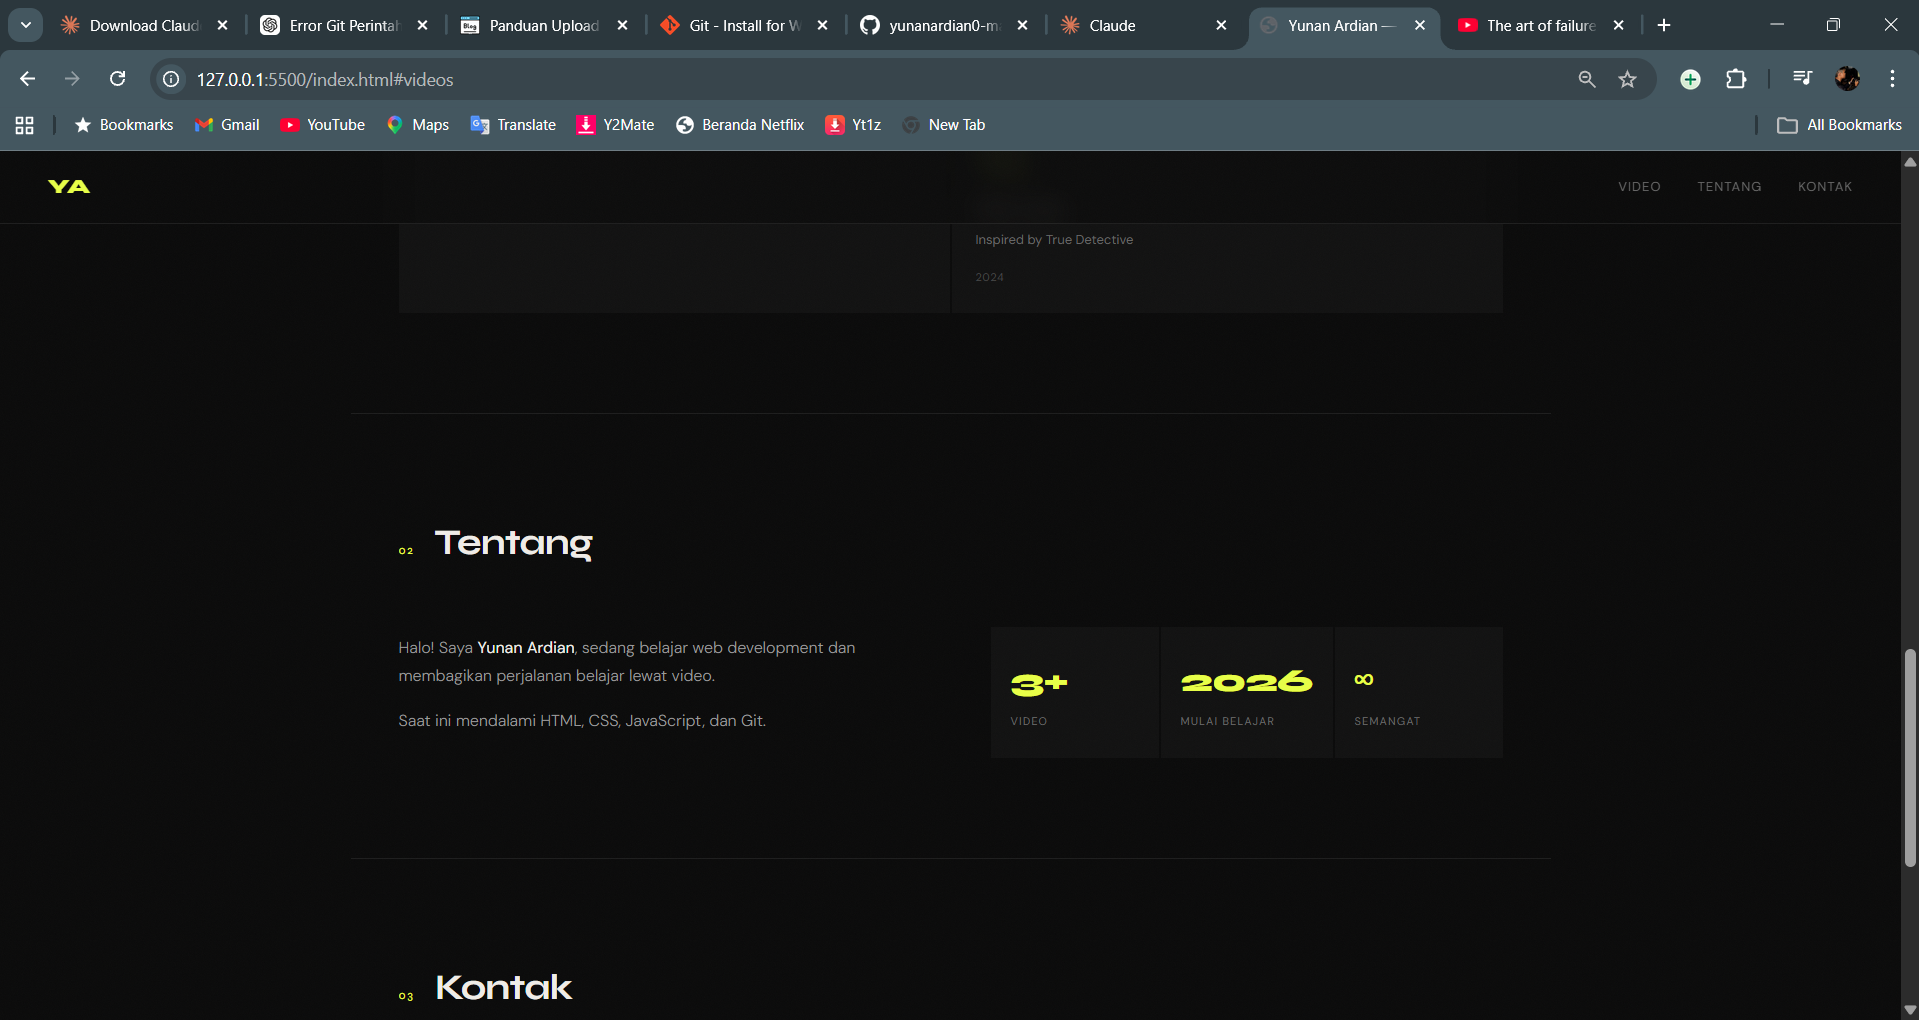
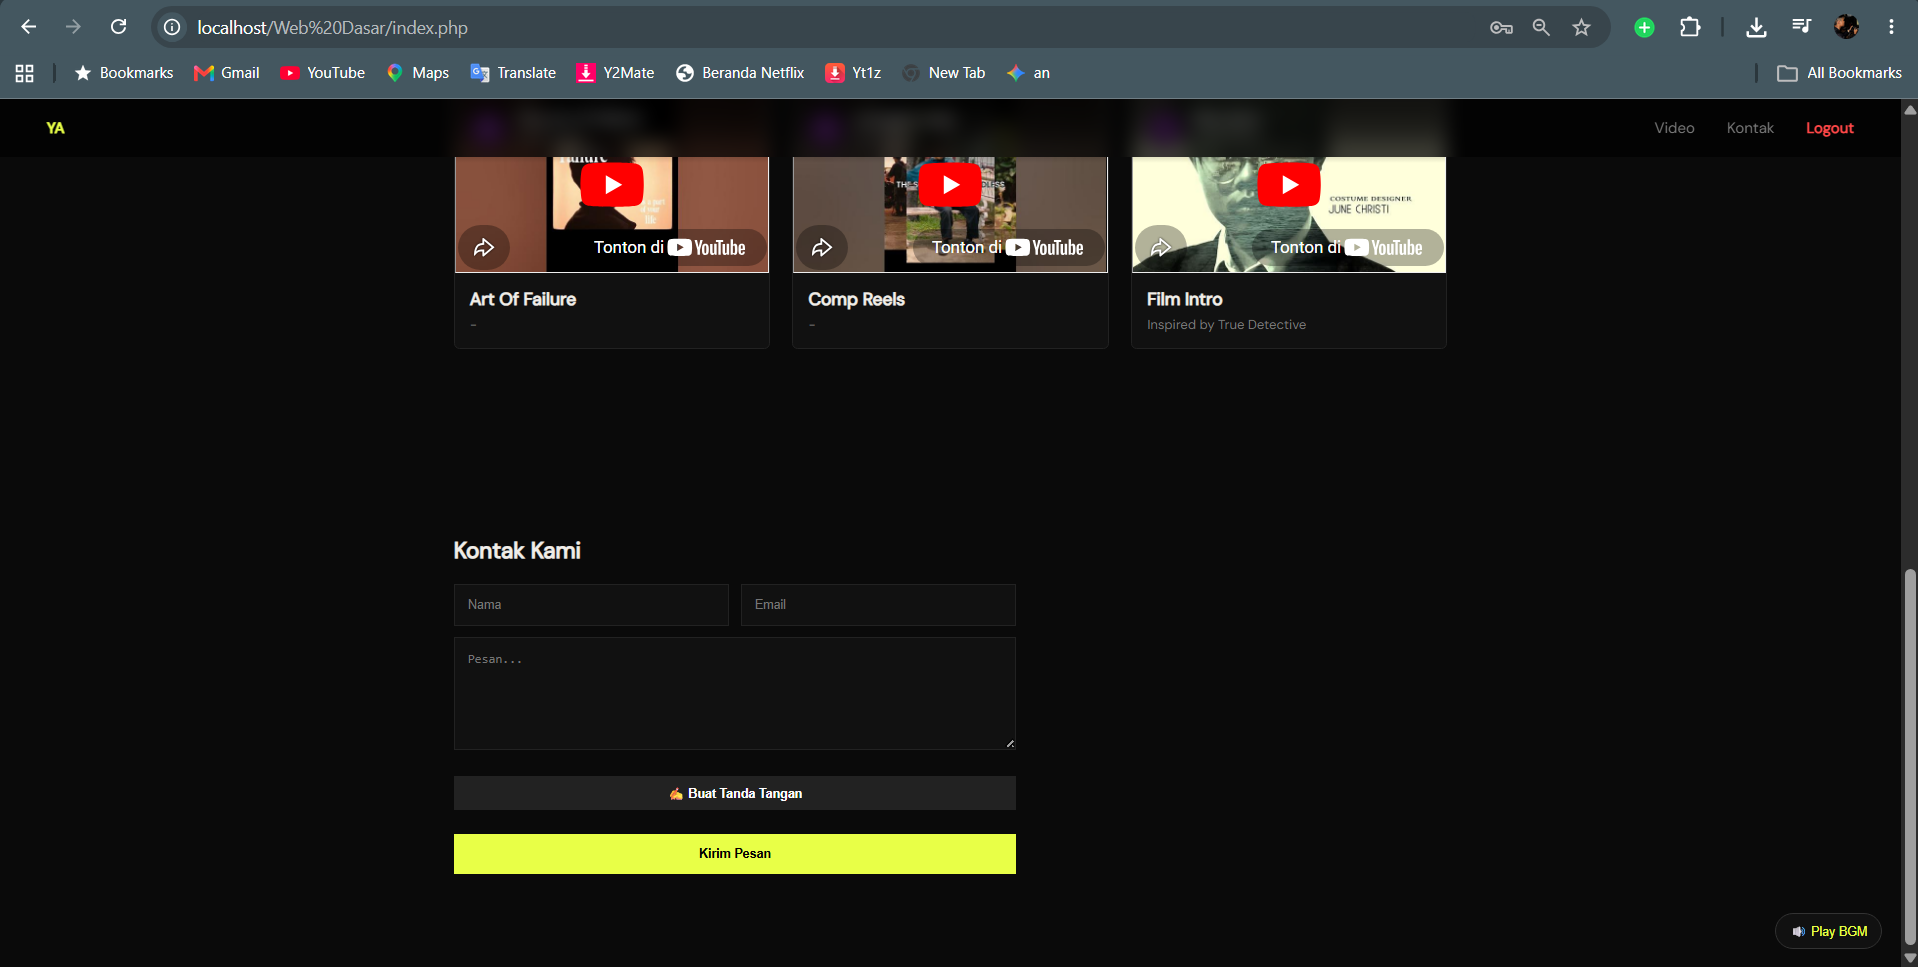
Pembaharuan MD dan update preview web

diff --git a/README.md b/README.md
@@ -18,20 +18,28 @@ Dibangun sebagai bagian dari proses belajar dan eksplorasi frontend development.
 
 ## 🚀 Fitur
 
-- 🎥 Embed video dari YouTube
-- ✨ Animasi scroll reveal
+- 🎥 Embed video dari YouTube langsung dari database
+- ✨ Animasi scroll reveal dan transisi CSS interaktif pada video card
 - 🎯 Interaksi navbar aktif
-- ⚡ Hover effect pada video card
-- 📨 Form kontak dengan validasi JavaScript
+- 🔐 Sistem Login Multi-Role (Admin & User/Pengunjung) menggunakan Session PHP
+- 📨 Form kontak terintegrasi dengan popup **Modal** dan **Canvas Tanda Tangan Digital (TTD)**
+- 📁 CRUD Manajemen Video Konten lengkap dengan **Multiple File Upload** di area Admin
+- 📊 **DataTables** pada panel admin yang mendukung Pencarian Data otomatis serta Konversi/Ekspor data (PDF, Excel, CSV, Print)
+- 🎵 Pengontrol audio latar belakang (BGM) interaktif menggunakan HTML5 Audio API
 - 📱 Responsive design (mobile friendly)
 
 ---
 
-## 🛠 Teknologi
+## 🛠 Teknologi & Library
 
-- HTML5
-- CSS3 (Custom properties & responsive layout)
-- JavaScript (DOM manipulation & event handling)
+- **Core Back-End:** PHP 8.x (Native Terstruktur), MySQLi Data Driver.
+- **Core Front-End:** HTML5, CSS3 Custom Properties (Variabel), JavaScript Vanilla.
+- **Library Eksternal (CDN):**
+  - jQuery 3.6.0 (Ketergantungan DataTables)
+  - DataTables Core Engine 1.13.6 (Pencarian & Pagination)
+  - DataTables Buttons Extension 2.4.1 (Modul Ekspor Data)
+  - JSZip & PDFMake (Kompilasi dokumen Excel & PDF pada sisi klien)
+- **Font & Estetika:** Syne Font & DM Sans Font via Google Fonts.
 
 ---
 
@@ -39,9 +47,13 @@ Dibangun sebagai bagian dari proses belajar dan eksplorasi frontend development.
 
 
 ![SS PREVIEW](img/preview.png)
+![SS PREVIEW](img/preview1.png)
 ![SS PREVIEW](img/preview2.png)
 ![SS PREVIEW](img/preview3.png)   
 ![SS PREVIEW](img/preview4.png) 
+![SS PREVIEW](img/preview5.png)
+![SS PREVIEW](img/preview6.png)
+![SS PREVIEW](img/preview7.png)
 
 
 ---
@@ -49,13 +61,27 @@ Dibangun sebagai bagian dari proses belajar dan eksplorasi frontend development.
 ## 📂 Struktur Project
 project/
 │
-├── index.html
-├── style.css
-├── script.js
-├── README.md
-└── img/
+├── admin/                  # FOLDER BARU: Area Panel Kontrol Administrator
+│   ├── index.php           # Dashboard Admin: Form CRUD, Multiple Upload, & DataTables
+│   ├── cek_sesi.php        # Middleware Satpam: Validasi Sesi & Proteksi Hak Akses Role
+│   └── uploads/            # Tempat penyimpanan berkas hasil Multi-Upload
+│
+├── koneksi.php             # Koneksi database MySQL
+├── login.php               # Gerbang utama masuk sistem (Multi-Role)
+├── logout.php              # Penghapus sesi login
+├── index.php               # Halaman depan portfolio publik (Front-End)
+├── kirim.php               # Proses simpan form kontak & data string Canvas TTD
+├── style.css               # Gaya tampilan halaman (ditambahkan style Modal & BGM)
+└── README.md
 
 ## 🔄 Update Terbaru
+
+### v3.0 (Sistem Manajemen & Keamanan Terintegrasi)
+- **Otentikasi Multi-Role:** Menambahkan fitur Login (`login.php`, `logout.php`) memisahkan hak akses `admin` dan `user`.
+- **Canvas & Modal TTD:** Menambahkan popup Modal di halaman depan yang berisi HTML5 Canvas untuk tanda tangan digital sebelum mengirim pesan.
+- **CRUD & Multiple Upload:** Membuat panel admin khusus di dalam folder `admin/` untuk menambah/menghapus video portfolio sekaligus mengunggah banyak file pendukung sekaligus.
+- **DataTables & Konversi:** Mengintegrasikan library DataTables pada panel admin untuk fitur pencarian instan dan tombol ekspor data ke format Excel/PDF.
+- **Audio API:** Menambahkan fitur musik latar (BGM) interaktif pada halaman utama portfolio yang bisa dinyalakan/dimatikan oleh user.
 
 ### v2.0
 - Menambahkan koneksi database MySQL
